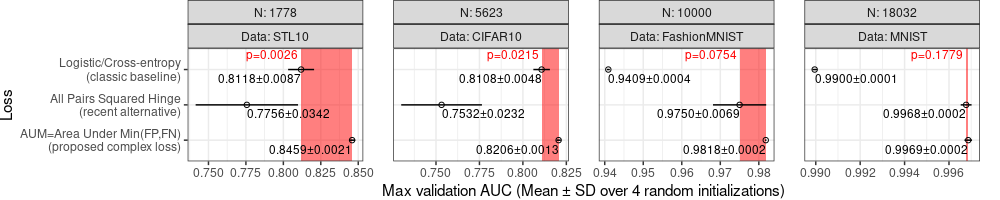
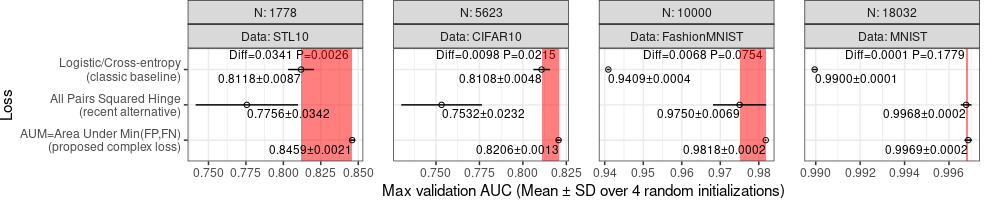
Diff=

diff --git a/_posts/2024-08-30-viz-pred-err.md b/_posts/2024-08-30-viz-pred-err.md
@@ -520,8 +520,7 @@ ggplot()+
     plot.margin=grid::unit(c(0,1,0,0), "lines"),
     panel.spacing=grid::unit(1.5, "lines"))+
   geom_text(aes(
-    m2, Inf, label=sprintf("p=%.4f ", p.paired)),
-    color=p.color,
+    m1, Inf, label=sprintf("Diff=%.4f P=%.4f ", mean.of.diff, p.paired)),
     data=test.dt,
     size=text.size,
     vjust=1.2,
@@ -700,7 +699,7 @@ ggplot()+
     data=test.proposed)+
   geom_text(aes(
     mean.proposed, other.Loss,
-    label=sprintf("P=%.4f", p.paired)),
+    label=sprintf("Diff=%.4f P=%.4f", mean.of.diff, p.paired)),
     color=p.color,
     size=text.size,
     vjust=-0.5,
@@ -752,9 +751,11 @@ ggplot()+
     data=test.proposed)+
   geom_text(aes(
     mean.proposed, other.Loss,
-    label=ifelse(
-      p.paired<0.0001, "P<0.0001",
-      sprintf("P=%.4f", p.paired))),
+    label=paste(
+      sprintf("Diff=%.4f", mean.of.diff),
+      ifelse(
+        p.paired<0.0001, "P<0.0001",
+        sprintf("P=%.4f", p.paired)))),
     color=p.color,
     size=text.size,
     vjust=-0.5,
